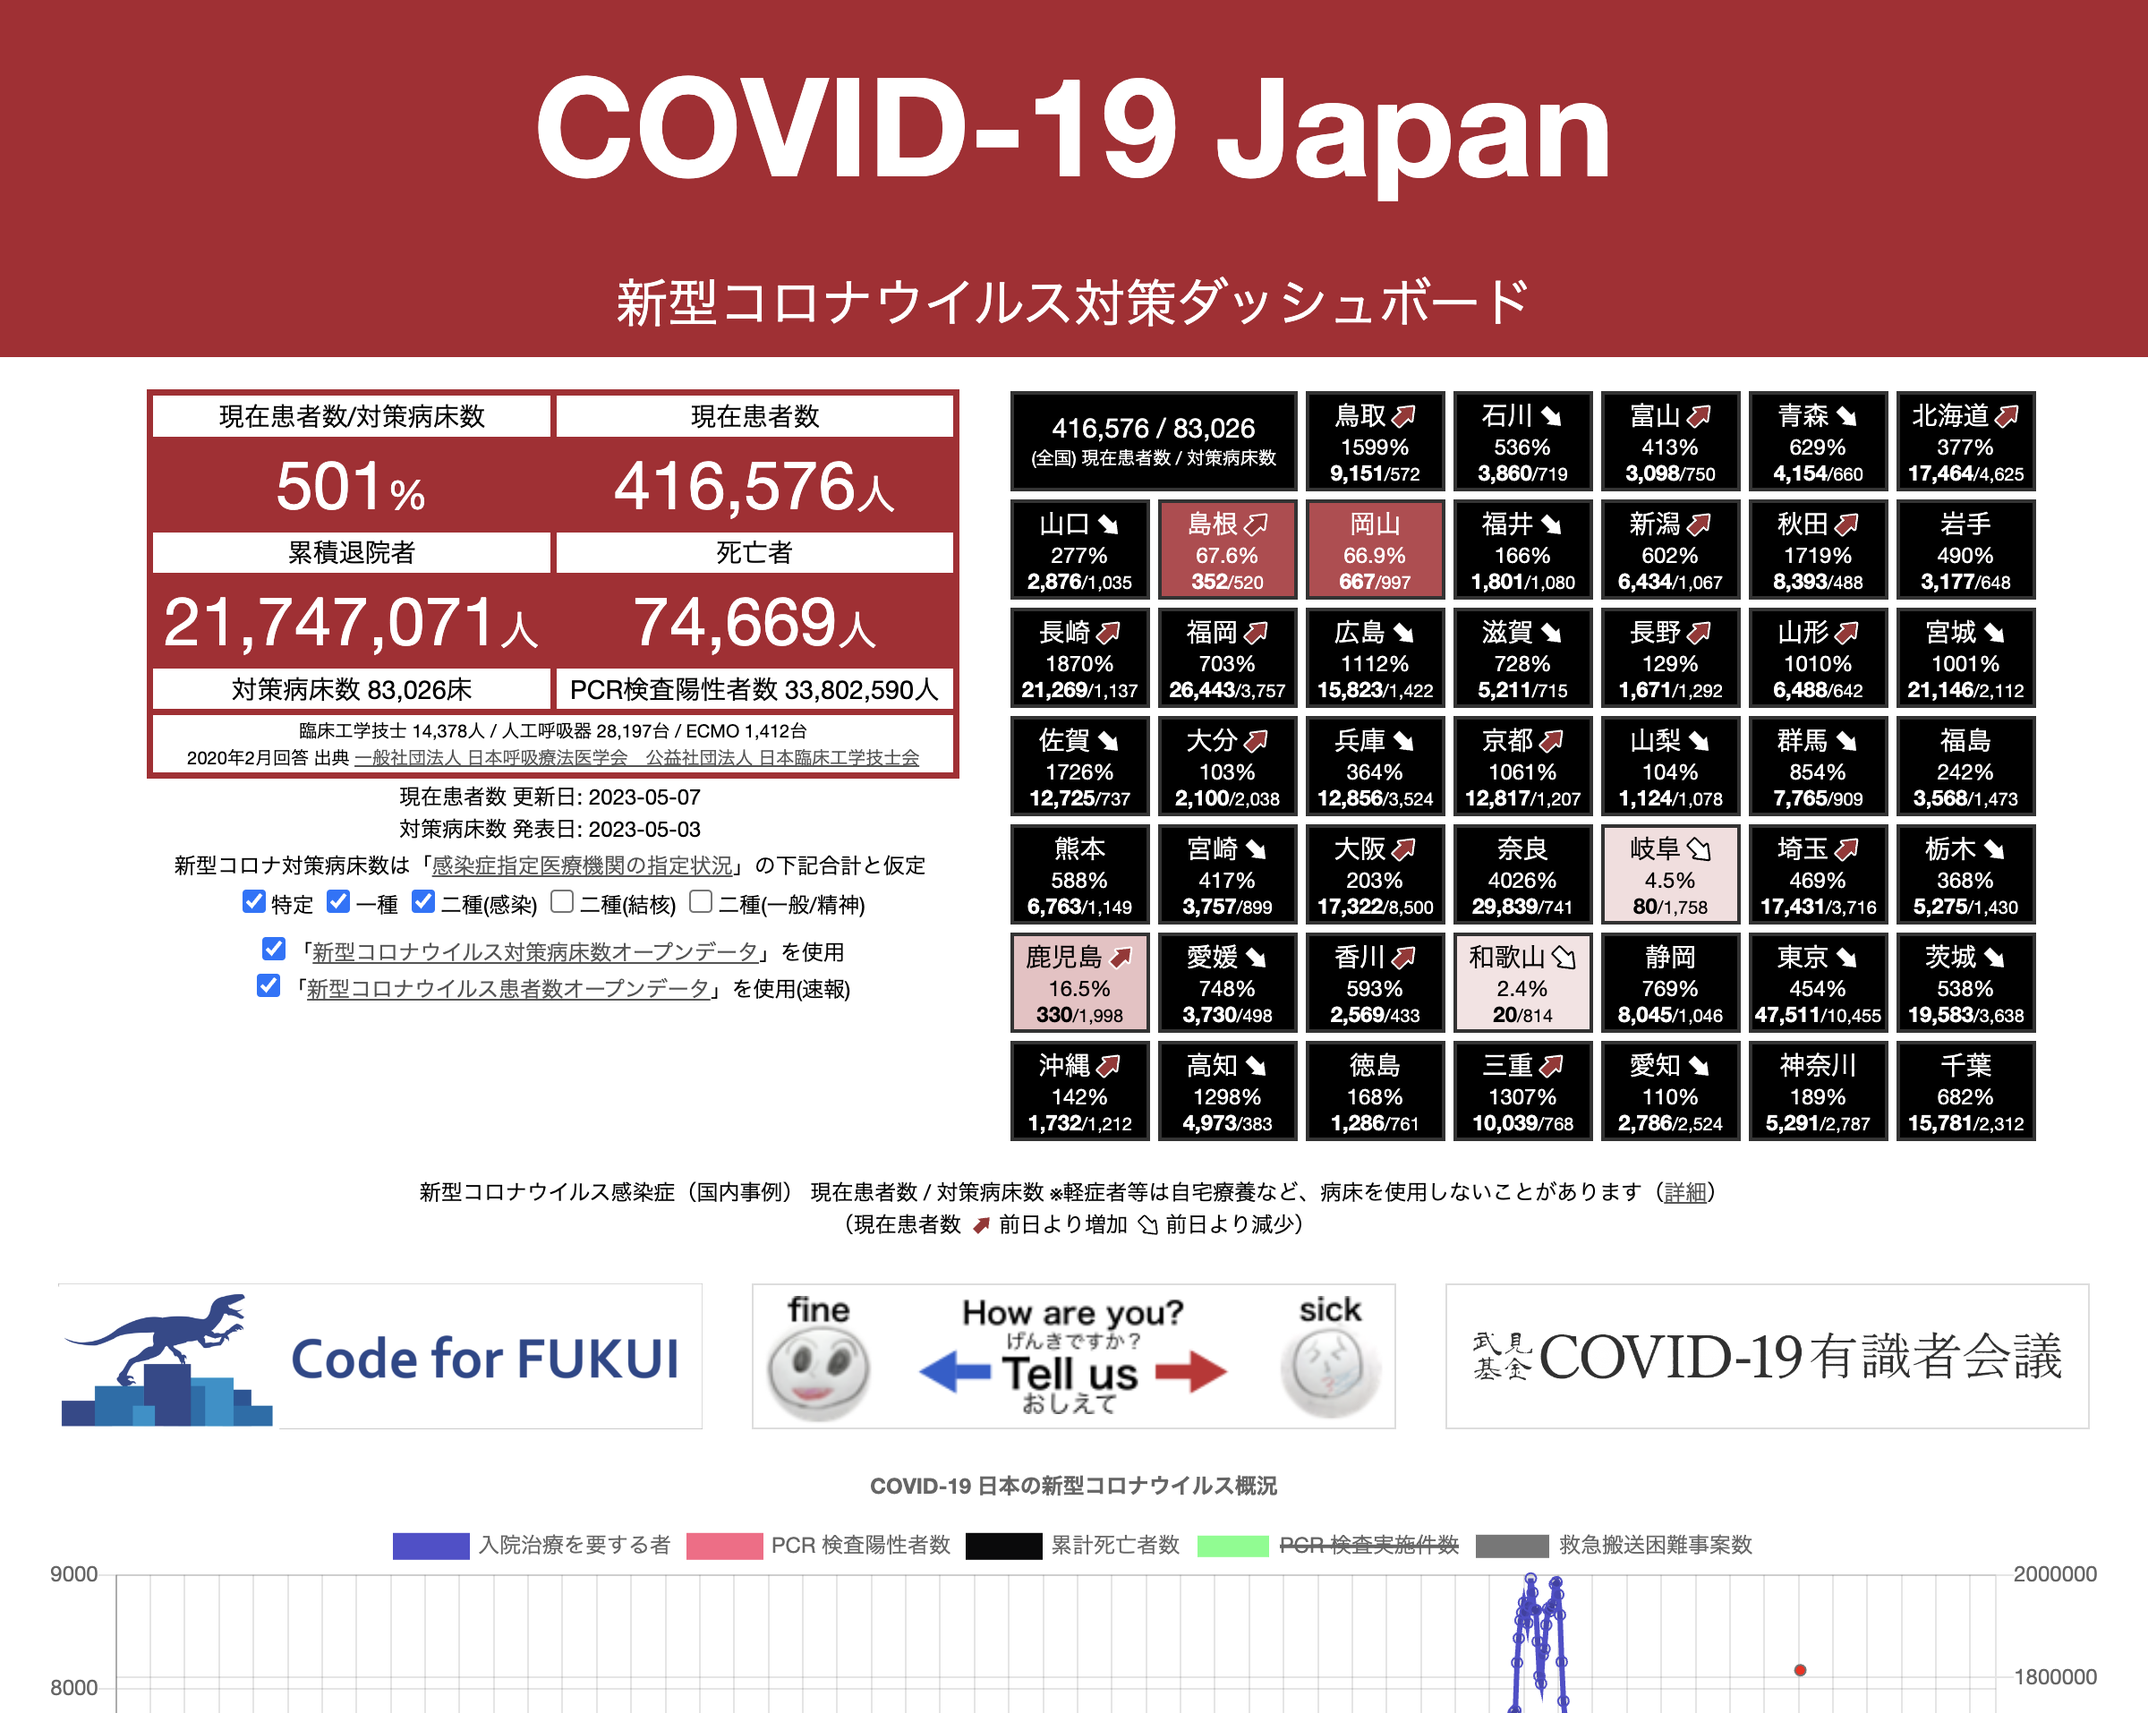
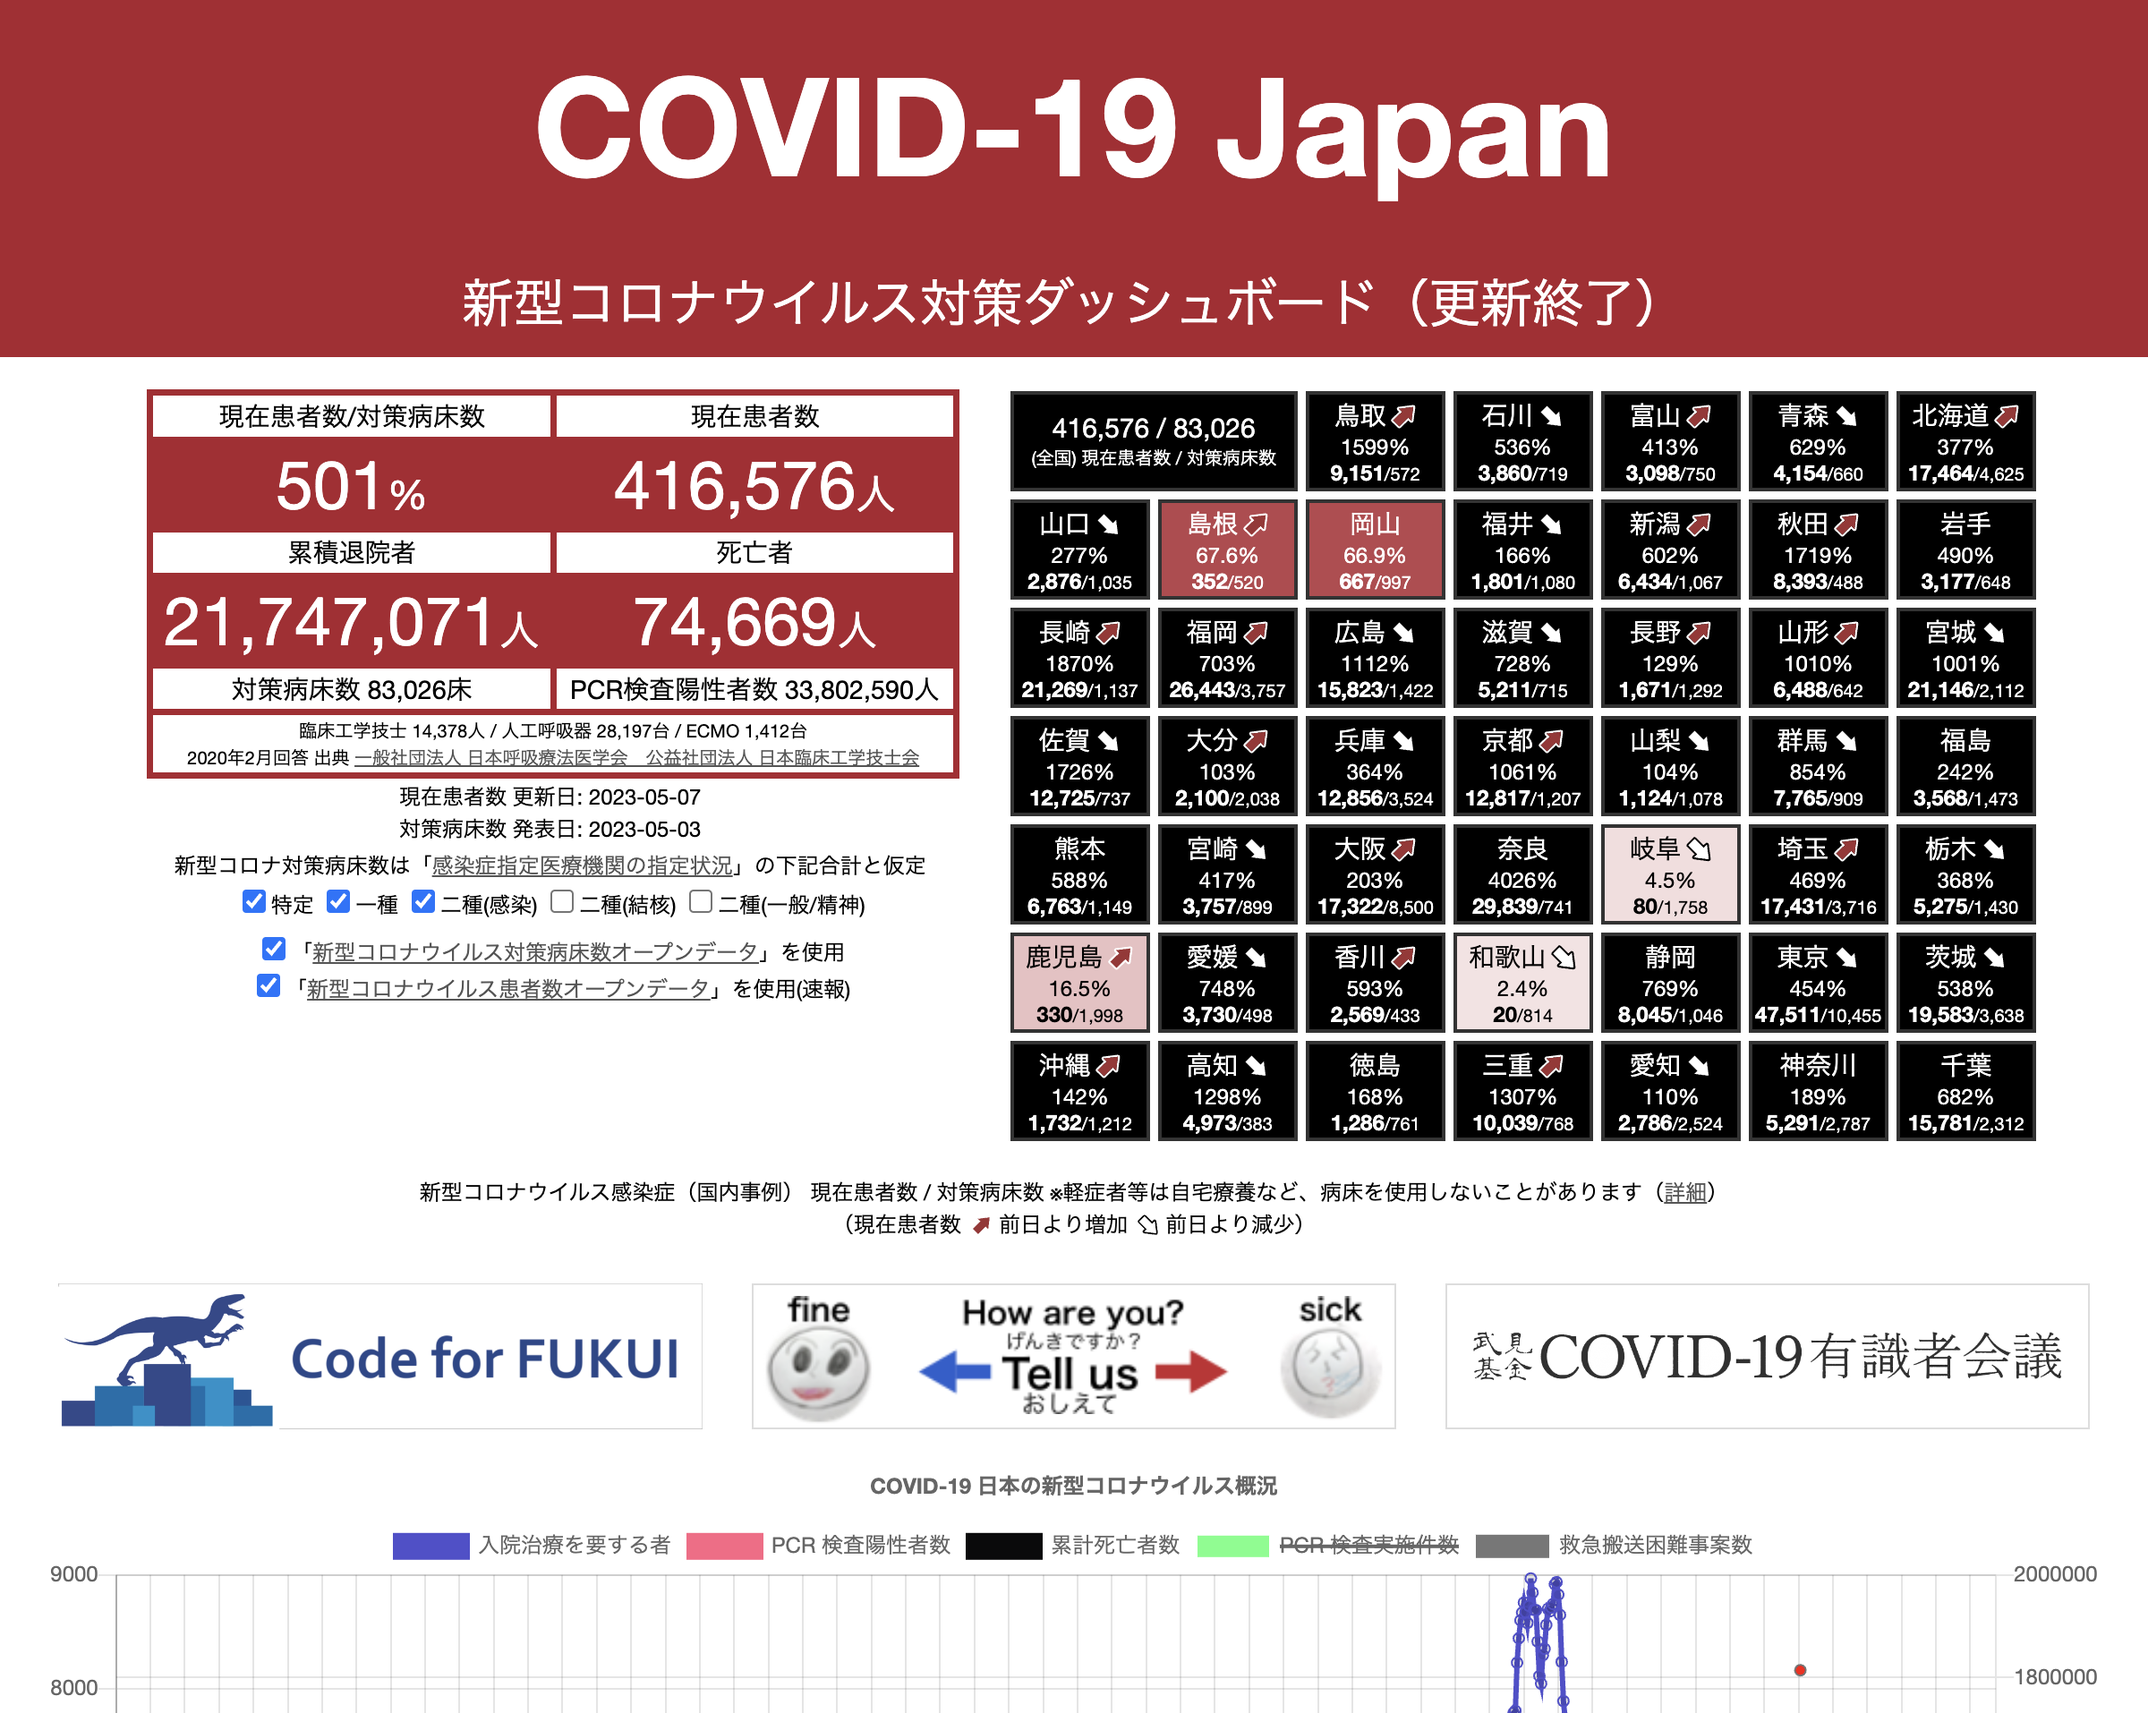
update data

Changed region(s): [[0.2188, 0.1541, 0.7812, 0.185]]

diff --git a/index.html b/index.html
@@ -20,8 +20,8 @@ gtag('config', 'UA-162141832-1')
 <link rel="apple-touch-icon" href="covid19japan-leargeicon.png">
 <meta name="msapplication-square310x310logo" content="covid19japan-leargeicon.png">
 <meta name="twitter:card" content="summary_large_image">
-<meta property="og:image"  content="https://www.stopcovid19.jp/ogp/covid19japan_ogp_20230511071628.png">
-<meta name="twitter:image" content="https://www.stopcovid19.jp/ogp/covid19japan_ogp_20230511071628.png">
+<meta property="og:image"  content="https://www.stopcovid19.jp/ogp/covid19japan_ogp_20230511085506.png">
+<meta name="twitter:image" content="https://www.stopcovid19.jp/ogp/covid19japan_ogp_20230511085506.png">
 
 <meta name="viewport" content="width=device-width, initial-scale=1.0">
 <meta name="format-detection" content="telephone=no">
@@ -1257,7 +1257,7 @@ const makeJapanHTML = function() {
 
 <header>
 	<h1 id=title>COVID-19 Japan</h1>
-	<div class=subtitle id=subtitle>新型コロナウイルス対策ダッシュボード<!--（対策病床数オープンデータを使わない場合）--></div>
+	<div class=subtitle id=subtitle>新型コロナウイルス対策ダッシュボード（更新終了）<!--（対策病床数オープンデータを使わない場合）--></div>
 </header>
 
 <div class="content">
